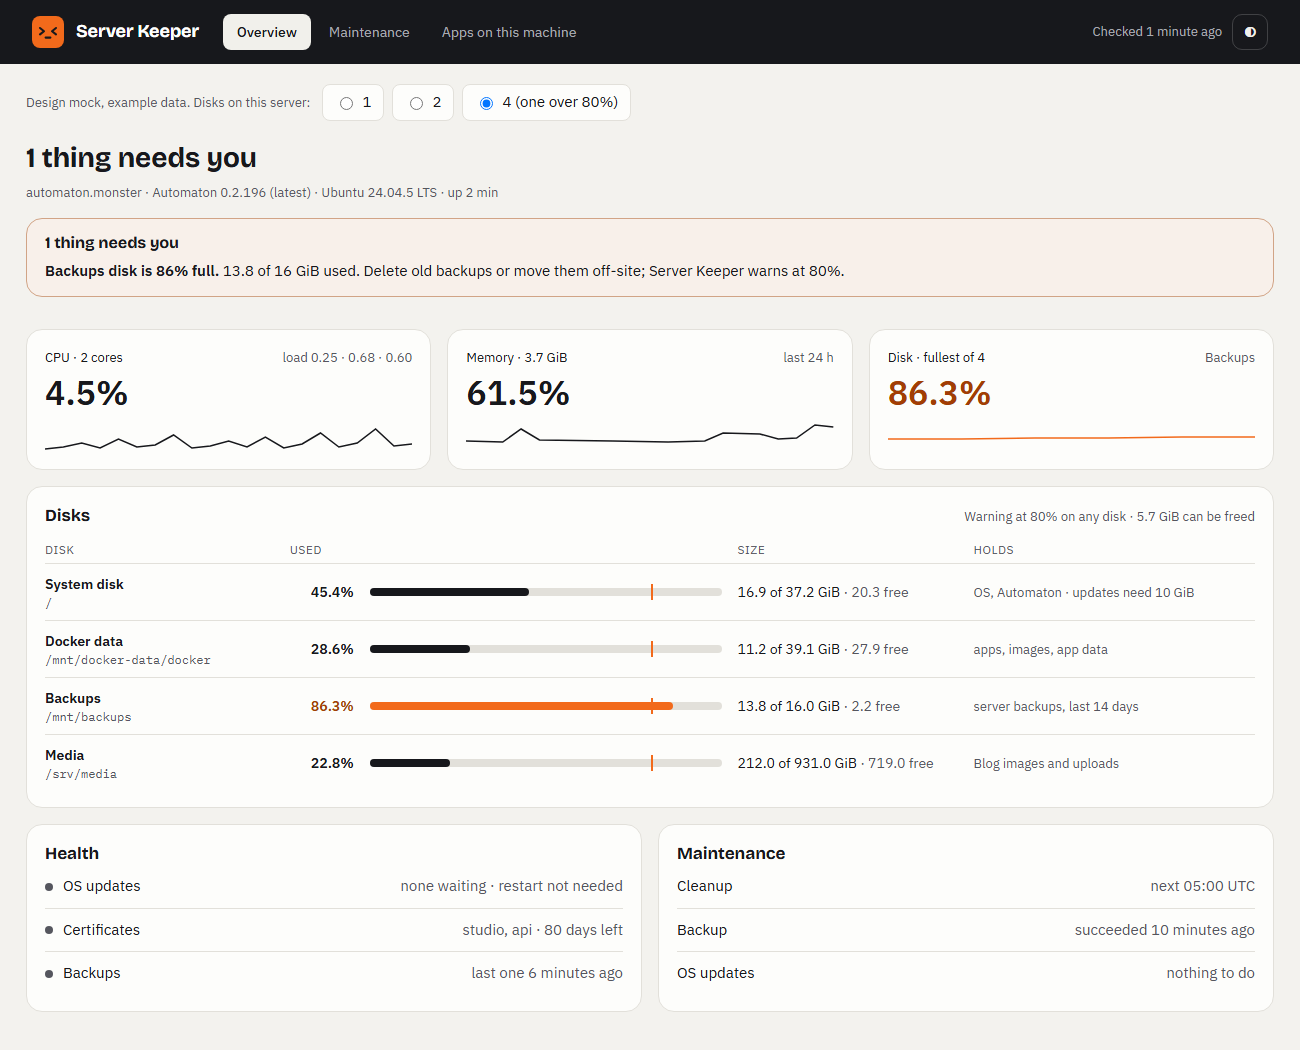
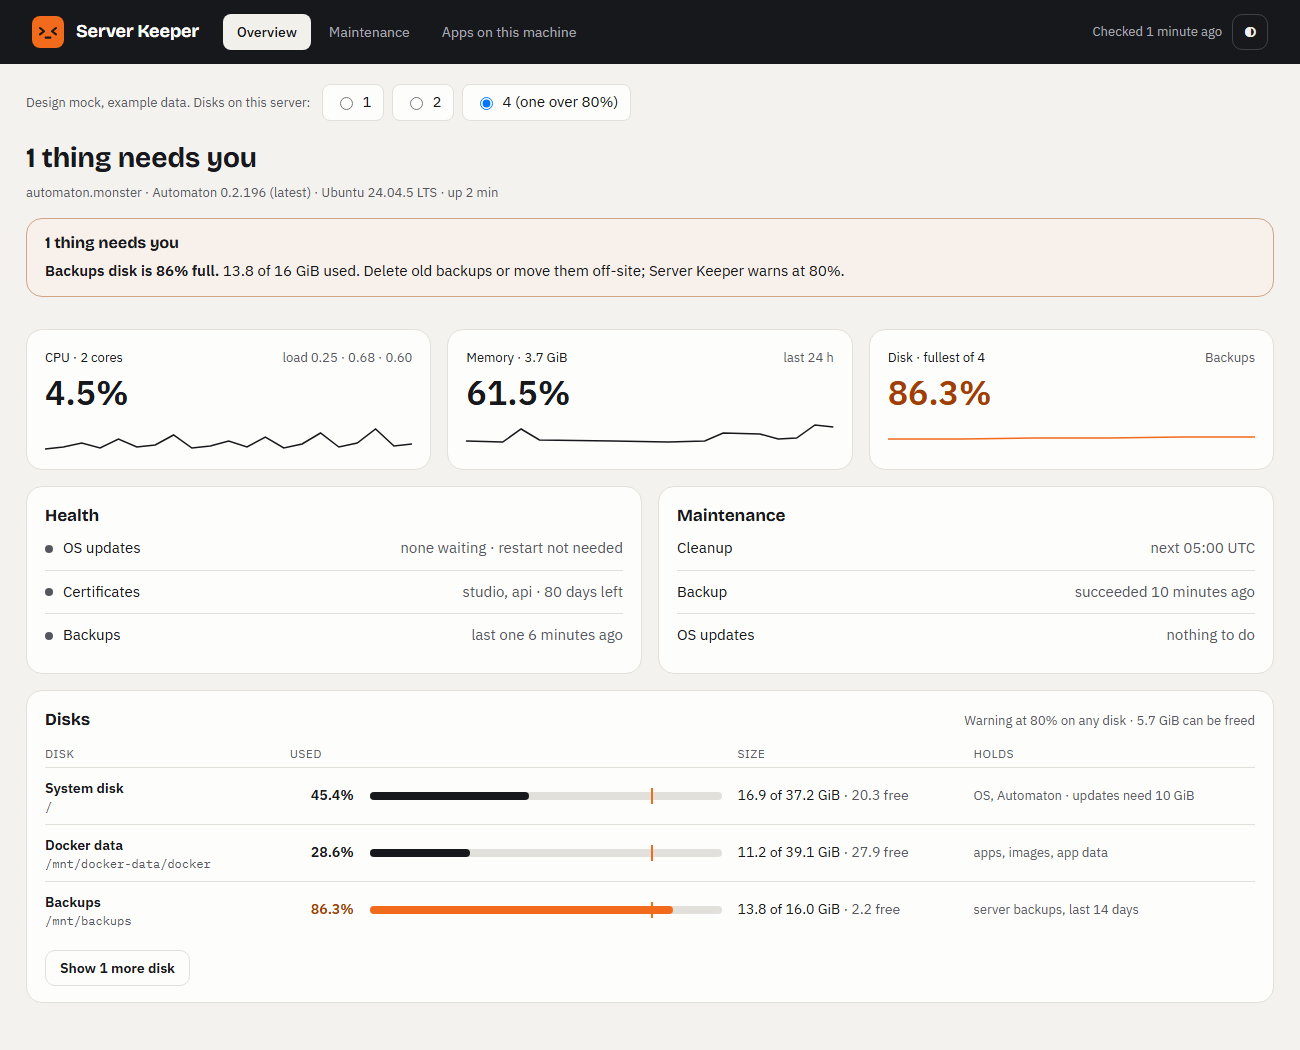
Disks card below Health and Maintenance, extra disks collapsed

diff --git a/docs/design/mocks/server-keeper-disks-layout.html b/docs/design/mocks/server-keeper-disks-layout.html
@@ -342,6 +342,7 @@ body{background:var(--bg)}
 .disk--warn .bar i{background:var(--orange)}
 .bar b{position:absolute;top:-4px;bottom:-4px;left:80%;width:2px;background:var(--orange)}
 .disk__size{font-variant-numeric:tabular-nums;color:var(--text);white-space:nowrap}.disk__size span{color:var(--muted)}
+.more{margin-top:12px}
 .disk__holds{color:var(--muted);font-size:13px;min-width:0}
 .lower{display:grid;grid-template-columns:1fr 1fr;gap:16px}
 .hrow{display:flex;align-items:center;gap:10px;padding:10px 0;border-top:1px solid var(--border)}.hrow .a-muted{margin-left:auto;text-align:right}
@@ -352,7 +353,8 @@ body{background:var(--bg)}
   .tiles{grid-template-columns:1fr}.a-topbar .a-header__sub{display:none}
   .disk--head{display:none}
   .disk{grid-template-columns:1fr auto;grid-template-areas:"name pct" "bar bar" "size size" "holds holds";gap:6px 12px}
-  .disk__name{grid-area:name}.disk__pct{grid-area:pct}.bar{grid-area:bar}.disk__size{grid-area:size}.disk__holds{grid-area:holds}
+  .disk__name{grid-area:name}.disk__pct{grid-area:pct}.bar{grid-area:bar}.disk__size{grid-area:size}.more{margin-top:12px}
+.disk__holds{grid-area:holds}
 }
 </style>
 <header class="a-topbar">
@@ -411,16 +413,6 @@ body{background:var(--bg)}
     </div>
   </div>
 
-  <section class="a-card disks" aria-labelledby="disks-title">
-    <div class="a-card__head">
-      <h3 class="a-card__title" id="disks-title">Disks</h3>
-      <span class="a-muted small" id="disks-foot">Warning at 80% on any disk · 5.7 GiB can be freed</span>
-    </div>
-    <div class="disk disk--head" aria-hidden="true">
-      <span>Disk</span><span>Used</span><span></span><span class="num">Size</span><span>Holds</span>
-    </div>
-    <div id="disk-rows"></div>
-  </section>
 
   <div class="lower">
     <div class="a-card">
@@ -436,6 +428,17 @@ body{background:var(--bg)}
       <div class="hrow">OS updates<span class="a-muted">nothing to do</span></div>
     </div>
   </div>
+  <section class="a-card disks" aria-labelledby="disks-title">
+    <div class="a-card__head">
+      <h3 class="a-card__title" id="disks-title">Disks</h3>
+      <span class="a-muted small" id="disks-foot">Warning at 80% on any disk · 5.7 GiB can be freed</span>
+    </div>
+    <div class="disk disk--head" aria-hidden="true">
+      <span>Disk</span><span>Used</span><span></span><span class="num">Size</span><span>Holds</span>
+    </div>
+    <div id="disk-rows"></div>
+    <button type="button" class="a-btn more" id="more" hidden></button>
+  </section>
 </main>
 <script>
 (function(){
@@ -462,6 +465,10 @@ body{background:var(--bg)}
         '<div class="disk__holds">'+esc(x.h)+'</div></div>';
     });
     document.getElementById('disk-rows').innerHTML=rows;
+    var els=[].slice.call(document.querySelectorAll('#disk-rows .disk')), more=document.getElementById('more'), extra=0;
+    els.forEach(function(e,i){ if(i>=3 && !e.classList.contains('disk--warn')){e.hidden=true;extra++;} });
+    more.hidden=!extra; more.textContent='Show '+extra+' more disk'+(extra>1?'s':'');
+    more.onclick=function(){els.forEach(function(e){e.hidden=false;});more.hidden=true;};
     var warn=top.p>=80;
     document.getElementById('dt-label').textContent=d.length===1?'Disk':'Disk · fullest of '+d.length;
     document.getElementById('dt-name').textContent=d.length===1?top.x.t.toFixed(1)+' GiB':top.x.n;
